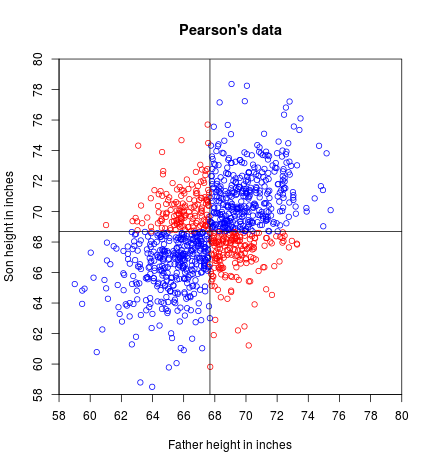
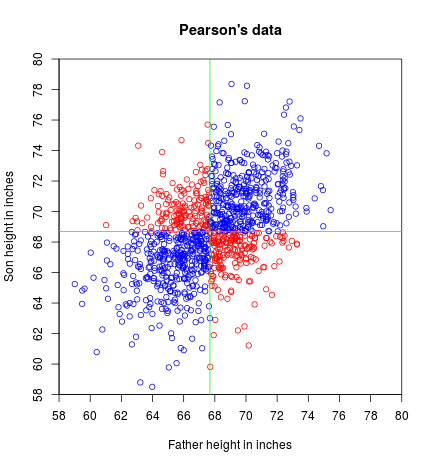
Seems to start behaving...

Changed region(s): [[0.4815, 0.1197, 0.5116, 0.8376]]

diff --git a/_posts/2016-10-21-correlation.md b/_posts/2016-10-21-correlation.md
@@ -13,6 +13,7 @@ This is the first of a series of posts in the subject of linear regression, usin
 
 <script src="https://cdn.mathjax.org/mathjax/latest/MathJax.js?config=TeX-AMS-MML_HTMLorMML" type="text/javascript"></script>
 
+
 * Acknowledgments: organization is extracted from:
   - *Freedman, Pisani, Purves, Statistics, 4th ed.*, probably
   the best book on statistical thinking (it maybe has a total of 4-5 formulas).
@@ -410,8 +411,10 @@ plot(x, y,
 axp <- seq(58, 80, by = 2)
 axis(1, at = axp, labels = axp)
 axis(2, at = axp, labels = axp)
-abline(v=meanx)
-abline(h=meany)
+
+## Point of averages
+abline(v=meanx, col="green")
+abline(h=meany, col="green")
 ```
 
 <img src="/figure/source/2016-10-21-correlation/unnamed-chunk-9-1.png" title="plot of chunk unnamed-chunk-9" alt="plot of chunk unnamed-chunk-9" style="display: block; margin: auto;" />
@@ -462,8 +465,8 @@ axp <- seq(58, 80, by = 2)
 axis(1, at = axp, labels = axp)
 axis(2, at = axp, labels = axp)
 
-abline(v=meanx)
-abline(h=meany)
+abline(v=meanx, col="green")
+abline(h=meany, col="green")
 ```
 
 <img src="/figure/source/2016-10-21-correlation/unnamed-chunk-11-1.png" title="plot of chunk unnamed-chunk-11" alt="plot of chunk unnamed-chunk-11" style="display: block; margin: auto;" />

diff --git a/_posts/2016-10-24-stat-functions-in-pipelines-without-intubate.md b/_posts/2016-10-24-stat-functions-in-pipelines-without-intubate.md
@@ -5,7 +5,10 @@ author: "Roberto Bertolusso"
 categories: [intubate, r-project]
 tags: [intubate, magrittr, data science]
 date: "2016-10-24"
+use_math : true
 ---
+
+<script src="https://cdn.mathjax.org/mathjax/latest/MathJax.js?config=TeX-AMS-MML_HTMLorMML" type="text/javascript"></script>
 
 
 
@@ -875,25 +878,3 @@ success of `intubate`).
 After all, the complication should be in
 the analysis you are performing,
 and not in how you are performing it.
-
-<hr />
-Please disregard this. I am trying to see if I can make latex math work in Github.
-No luck so far...
-
-A
-\[
-a = \sqrt{\frac{b}{c}}
-\]
-
-B
-
-$$
-a = \sqrt{\frac{b}{c}}
-$$
-
-C
-\\[
-a = \sqrt{\frac{b}{c}}
-\\]
-
-<hr />
